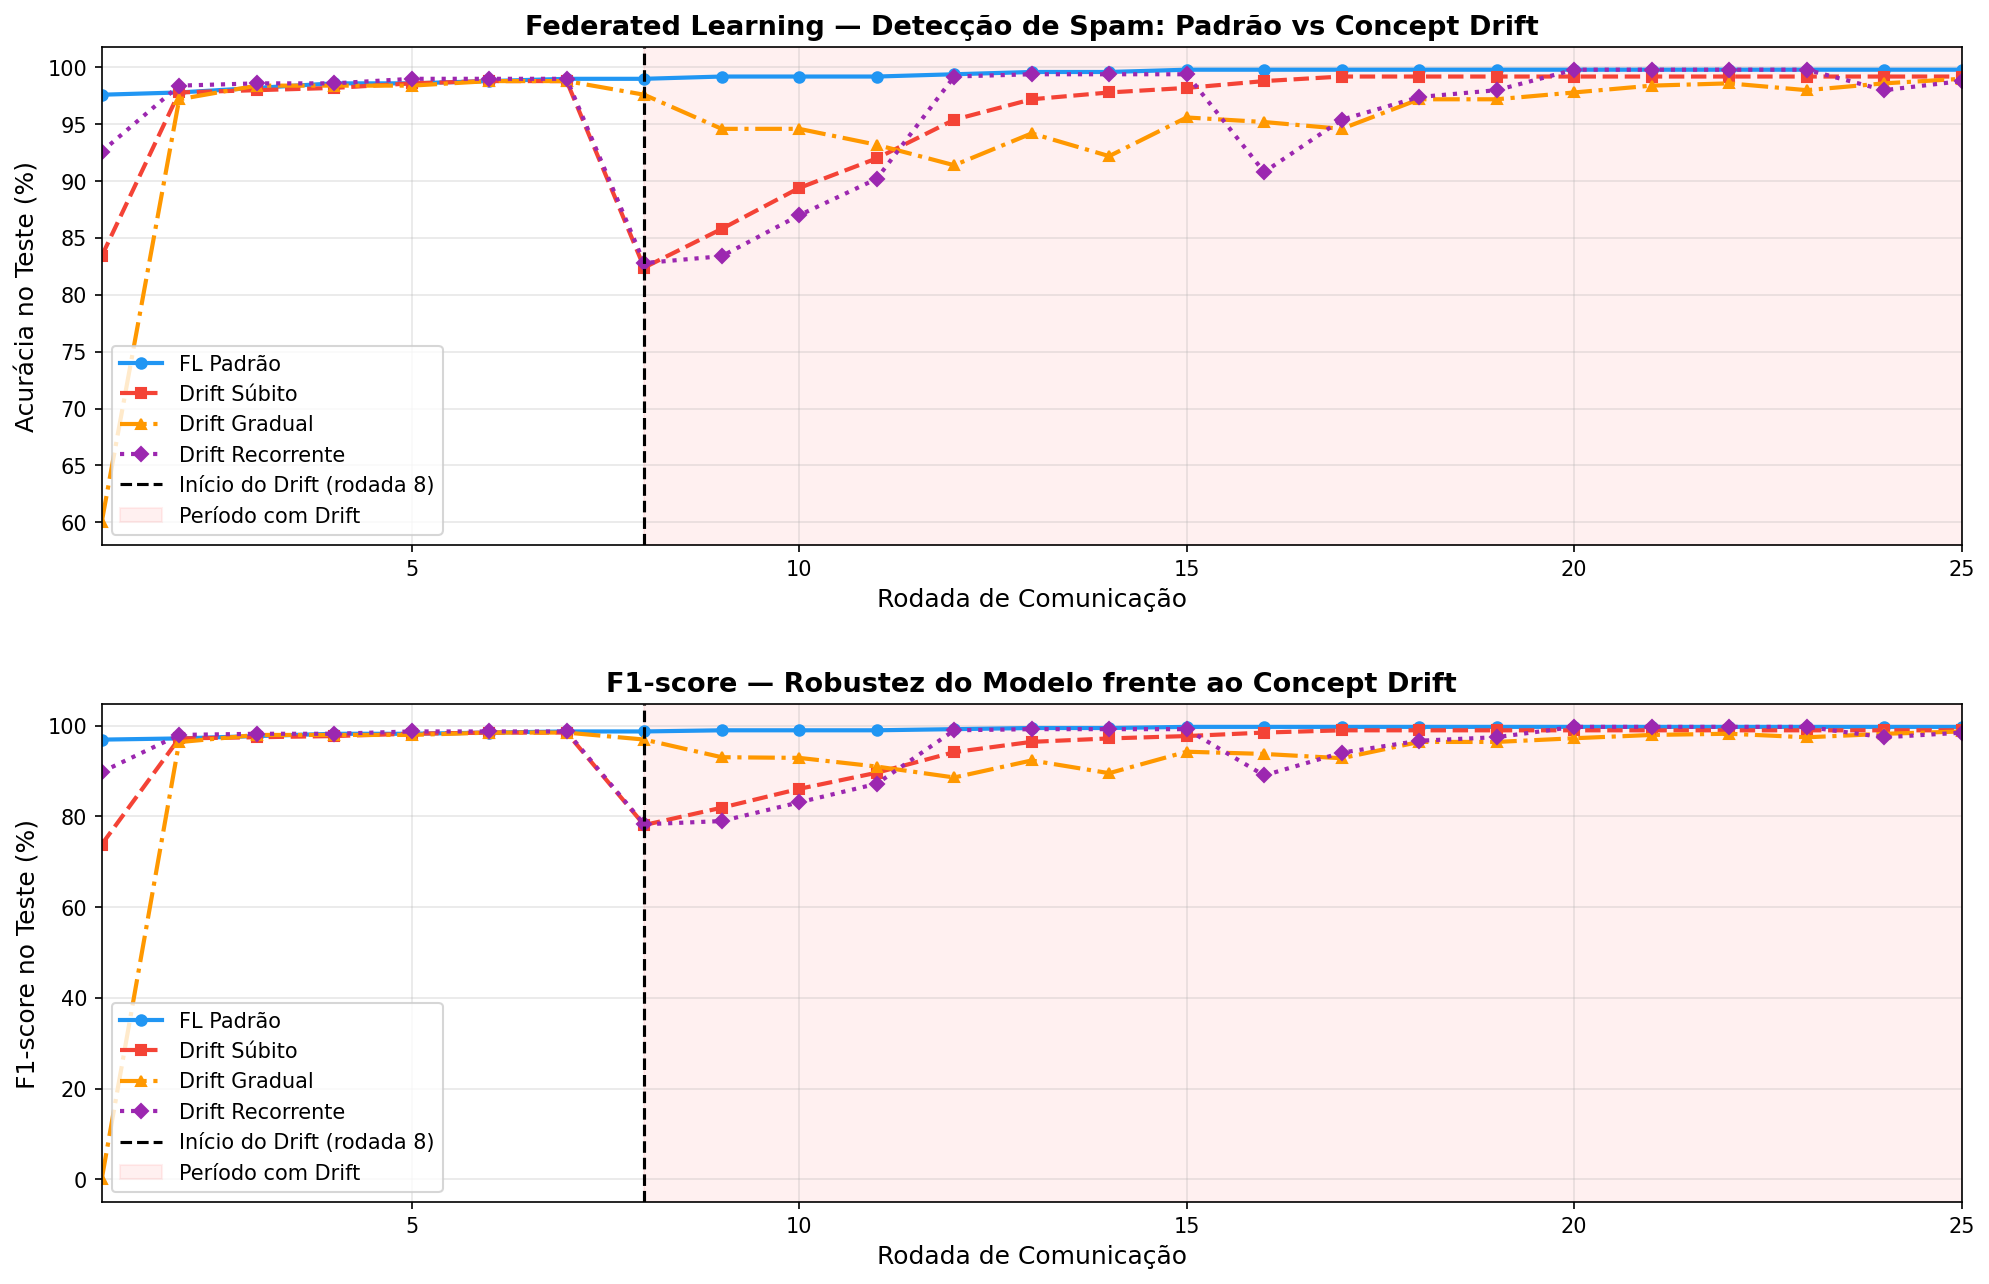
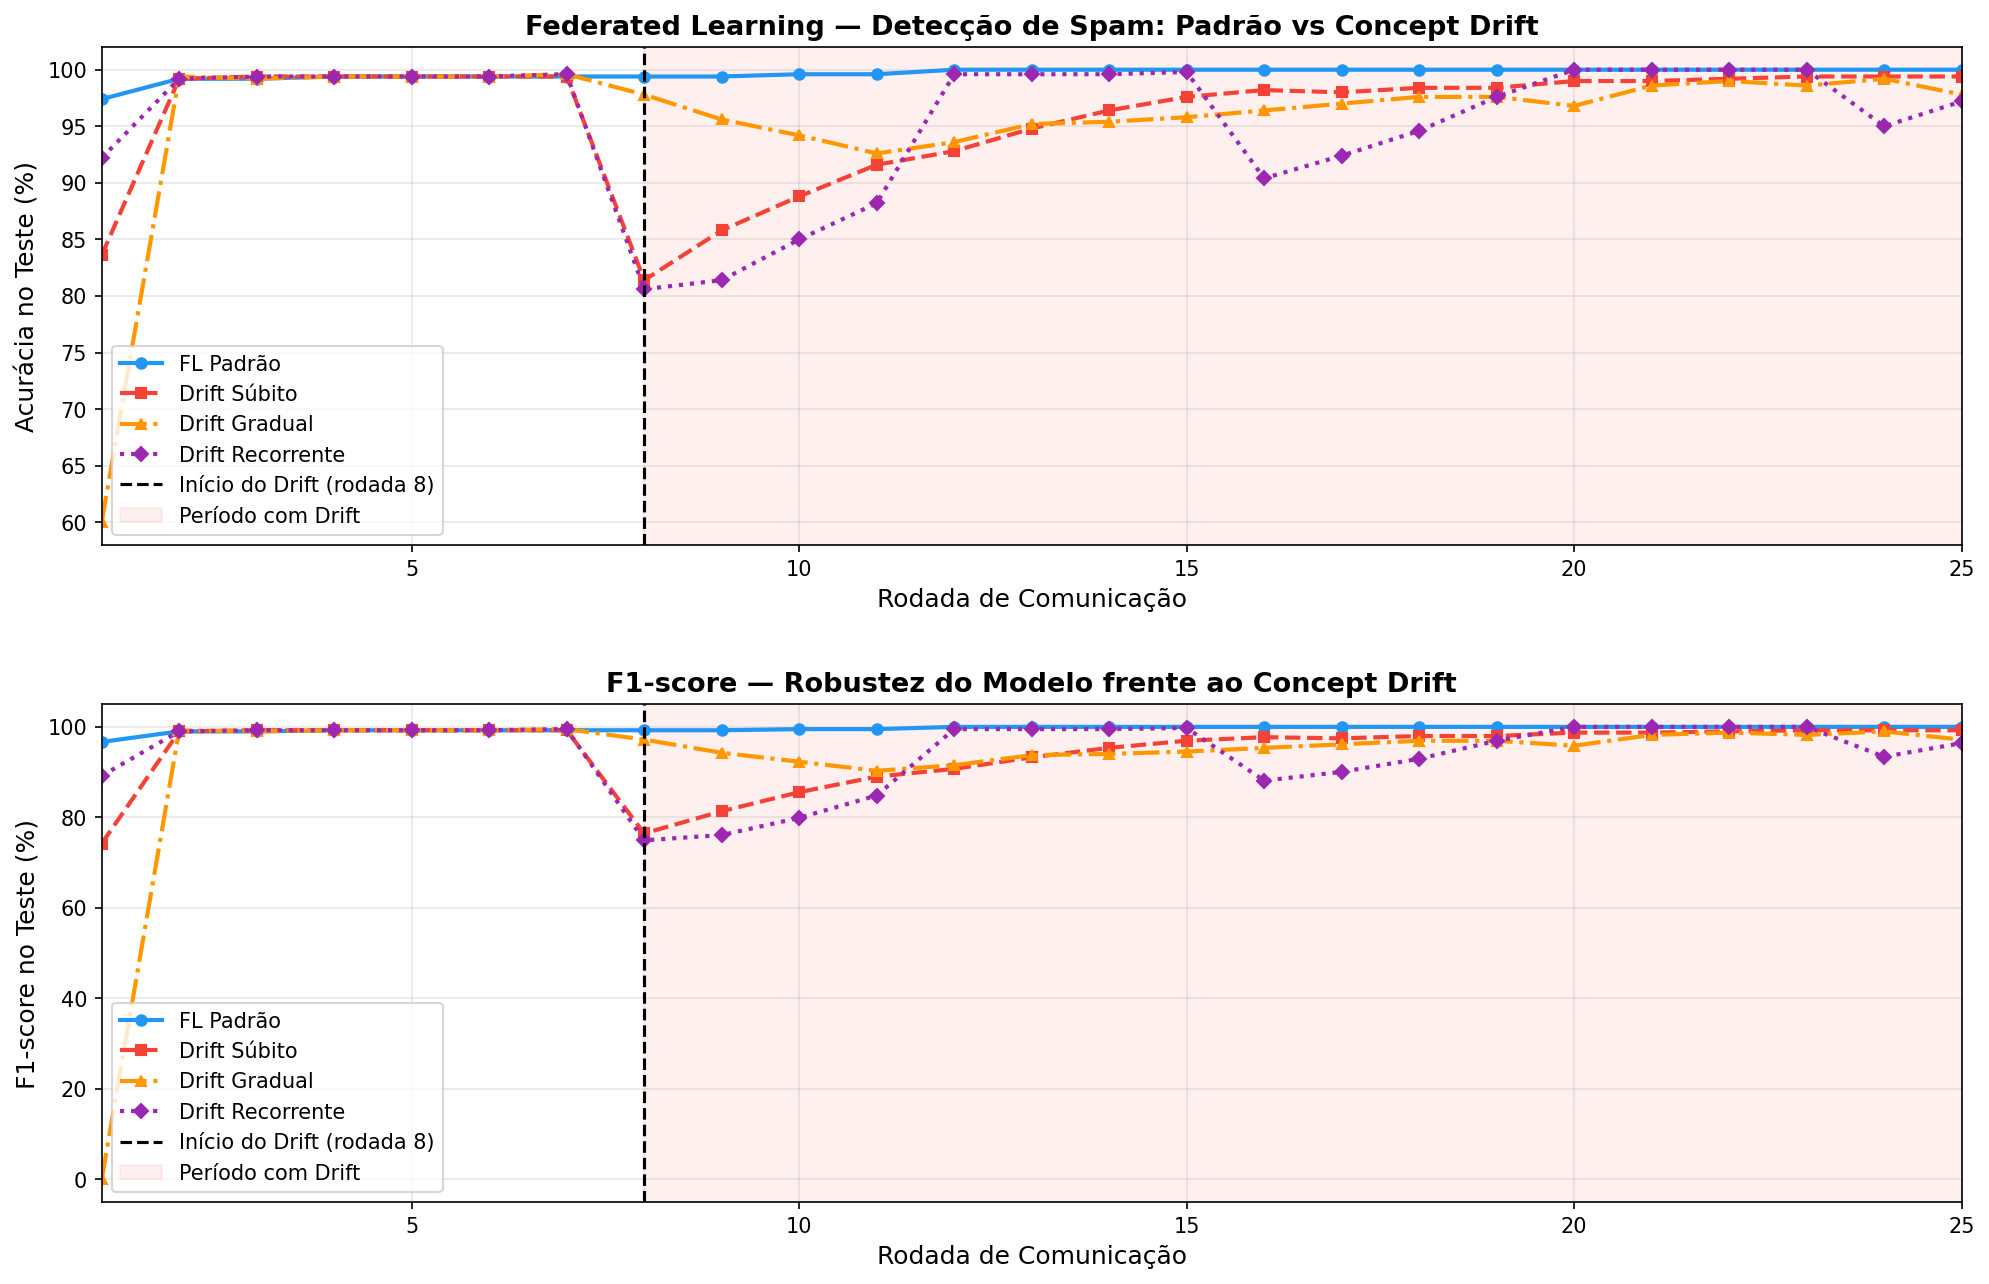
[REFACTOR] refatorando código de numpy.

diff --git a/src/data.py b/src/data.py
@@ -37,6 +37,7 @@ Perfis de spam:
 import numpy as np
 import torch
 from torch.utils.data import TensorDataset
+from utils.generator_util import GeneratorUtil
 
 from config import FEATURE_DIM, SPAM_RATIO
 
@@ -71,35 +72,35 @@ FEATURE_NAMES = [
 def _ham_features(n: int) -> np.ndarray:
     """Features de e-mails legítimos (ham)."""
     x = np.zeros((n, FEATURE_DIM), dtype=np.float32)
-    x[:, 0:10] = np.random.exponential(0.05, (n, 10))  # palavras-spam raras
-    x[:, 10] = np.random.poisson(1.5, n)  # poucos links
-    x[:, 11] = np.random.poisson(0.5, n)  # raramente "!"
-    x[:, 12] = np.clip(np.random.normal(0.50, 0.15, n), 0, 1)
-    x[:, 13] = np.clip(np.random.normal(0.05, 0.03, n), 0, 1)
-    x[:, 14] = np.random.binomial(1, 0.70, n)  # geralmente tem unsubscribe
-    x[:, 15] = np.random.binomial(1, 0.05, n)
-    x[:, 16] = np.random.binomial(1, 0.30, n)
-    x[:, 17] = np.random.poisson(0.8, n)
-    x[:, 18] = np.random.binomial(1, 0.80, n)  # remetente conhecido
-    x[:, 19] = np.random.binomial(1, 0.02, n)
+    x[:, 0:10] = GeneratorUtil.exponential(0.05, (n, 10))  # palavras-spam raras
+    x[:, 10] = GeneratorUtil.poisson(1.5, n)  # poucos links
+    x[:, 11] = GeneratorUtil.poisson(0.5, n)  # raramente "!"
+    x[:, 12] = np.clip(GeneratorUtil.normal(0.50, 0.15, n), 0, 1)
+    x[:, 13] = np.clip(GeneratorUtil.normal(0.05, 0.03, n), 0, 1)
+    x[:, 14] = GeneratorUtil.binomial(1, 0.70, n)  # geralmente tem unsubscribe
+    x[:, 15] = GeneratorUtil.binomial(1, 0.05, n)
+    x[:, 16] = GeneratorUtil.binomial(1, 0.30, n)
+    x[:, 17] = GeneratorUtil.poisson(0.8, n)
+    x[:, 18] = GeneratorUtil.binomial(1, 0.80, n)  # remetente conhecido
+    x[:, 19] = GeneratorUtil.binomial(1, 0.02, n)
     return x
 
 
 def _spam_phase_a(n: int) -> np.ndarray:
     """Spam clássico — abusa de free/win/prize/click/offer (features 0–4)."""
     x = np.zeros((n, FEATURE_DIM), dtype=np.float32)
-    x[:, 0:5] = np.random.exponential(1.2, (n, 5))  # palavras clássicas altas
-    x[:, 5:10] = np.random.exponential(0.05, (n, 5))  # palavras modernas baixas
-    x[:, 10] = np.random.poisson(8, n)
-    x[:, 11] = np.random.poisson(5, n)
-    x[:, 12] = np.clip(np.random.normal(0.70, 0.15, n), 0, 1)
-    x[:, 13] = np.clip(np.random.normal(0.35, 0.10, n), 0, 1)
-    x[:, 14] = np.random.binomial(1, 0.20, n)
-    x[:, 15] = np.random.binomial(1, 0.75, n)
-    x[:, 16] = np.random.binomial(1, 0.85, n)
-    x[:, 17] = np.random.poisson(5, n)
-    x[:, 18] = np.random.binomial(1, 0.05, n)
-    x[:, 19] = np.random.binomial(1, 0.70, n)
+    x[:, 0:5] = GeneratorUtil.exponential(1.2, (n, 5))  # palavras clássicas altas
+    x[:, 5:10] = GeneratorUtil.exponential(0.05, (n, 5))  # palavras modernas baixas
+    x[:, 10] = GeneratorUtil.poisson(8, n)
+    x[:, 11] = GeneratorUtil.poisson(5, n)
+    x[:, 12] = np.clip(GeneratorUtil.normal(0.70, 0.15, n), 0, 1)
+    x[:, 13] = np.clip(GeneratorUtil.normal(0.35, 0.10, n), 0, 1)
+    x[:, 14] = GeneratorUtil.binomial(1, 0.20, n)
+    x[:, 15] = GeneratorUtil.binomial(1, 0.75, n)
+    x[:, 16] = GeneratorUtil.binomial(1, 0.85, n)
+    x[:, 17] = GeneratorUtil.poisson(5, n)
+    x[:, 18] = GeneratorUtil.binomial(1, 0.05, n)
+    x[:, 19] = GeneratorUtil.binomial(1, 0.70, n)
     return x
 
 
@@ -110,18 +111,18 @@ def _spam_phase_b(n: int) -> np.ndarray:
     o modelo a aprender as novas palavras-chave, tornando o drift visível.
     """
     x = np.zeros((n, FEATURE_DIM), dtype=np.float32)
-    x[:, 0:5] = np.random.exponential(0.05, (n, 5))  # palavras clássicas baixas
-    x[:, 5:10] = np.random.exponential(1.2, (n, 5))  # palavras modernas altas
-    x[:, 10] = np.random.poisson(1.8, n)  # poucos links (≈ ham=1.5)
-    x[:, 11] = np.random.poisson(0.6, n)  # raramente "!" (≈ ham=0.5)
-    x[:, 12] = np.clip(np.random.normal(0.52, 0.15, n), 0, 1)
-    x[:, 13] = np.clip(np.random.normal(0.07, 0.03, n), 0, 1)
-    x[:, 14] = np.random.binomial(1, 0.60, n)
-    x[:, 15] = np.random.binomial(1, 0.35, n)
-    x[:, 16] = np.random.binomial(1, 0.35, n)
-    x[:, 17] = np.random.poisson(0.9, n)
-    x[:, 18] = np.random.binomial(1, 0.40, n)
-    x[:, 19] = np.random.binomial(1, 0.10, n)
+    x[:, 0:5] = GeneratorUtil.exponential(0.05, (n, 5))  # palavras clássicas baixas
+    x[:, 5:10] = GeneratorUtil.exponential(1.2, (n, 5))  # palavras modernas altas
+    x[:, 10] = GeneratorUtil.poisson(1.8, n)  # poucos links (≈ ham=1.5)
+    x[:, 11] = GeneratorUtil.poisson(0.6, n)  # raramente "!" (≈ ham=0.5)
+    x[:, 12] = np.clip(GeneratorUtil.normal(0.52, 0.15, n), 0, 1)
+    x[:, 13] = np.clip(GeneratorUtil.normal(0.07, 0.03, n), 0, 1)
+    x[:, 14] = GeneratorUtil.binomial(1, 0.60, n)
+    x[:, 15] = GeneratorUtil.binomial(1, 0.35, n)
+    x[:, 16] = GeneratorUtil.binomial(1, 0.35, n)
+    x[:, 17] = GeneratorUtil.poisson(0.9, n)
+    x[:, 18] = GeneratorUtil.binomial(1, 0.40, n)
+    x[:, 19] = GeneratorUtil.binomial(1, 0.10, n)
     return x
 
 
@@ -180,7 +181,7 @@ def make_dataset(n: int, spam_phase: str = "A", alpha: float = 0.0) -> TensorDat
     X = np.vstack([ham_x, spam_x]).astype(np.float32)
     y = np.array([0] * n_ham + [1] * n_spam, dtype=np.int64)
 
-    idx = np.random.permutation(n)
+    idx = GeneratorUtil.permutation(n)
     X, y = X[idx], y[idx]
     X = _normalize(X).clip(0, 1)
 
@@ -191,7 +192,8 @@ def split_iid(dataset: TensorDataset, num_clients: int) -> list:
     """Divide o dataset de forma IID entre os clientes."""
     X, y = dataset.tensors
     n = len(y)
-    idx = np.random.permutation(n)
+
+    idx = GeneratorUtil.permutation(n)
     chunk = n // num_clients
     return [
         TensorDataset(

diff --git a/src/utils/generator_util.py b/src/utils/generator_util.py
@@ -1,0 +1,44 @@
+import numpy as np
+
+from config import SEED
+
+
+class GeneratorUtil:
+    """Utilitário centralizado para geração de números aleatórios."""
+
+    _rng = np.random.default_rng(seed=SEED)
+
+    @staticmethod
+    def reseed(seed=SEED):
+        """Reinicializa o gerador global (opcional para experimentos)."""
+        GeneratorUtil._rng = np.random.default_rng(seed=seed)
+
+    @staticmethod
+    def exponential(scale, size=None, rng=None):
+        if rng is None:
+            rng = GeneratorUtil._rng
+        return rng.exponential(scale, size)
+
+    @staticmethod
+    def poisson(lam, size=None, rng=None):
+        if rng is None:
+            rng = GeneratorUtil._rng
+        return rng.poisson(lam, size)
+
+    @staticmethod
+    def normal(loc=0.0, scale=1.0, size=None, rng=None):
+        if rng is None:
+            rng = GeneratorUtil._rng
+        return rng.normal(loc, scale, size)
+
+    @staticmethod
+    def binomial(n, p, size=None, rng=None):
+        if rng is None:
+            rng = GeneratorUtil._rng
+        return rng.binomial(n, p, size)
+
+    @staticmethod
+    def permutation(n, rng=None):
+        if rng is None:
+            rng = GeneratorUtil._rng
+        return rng.permutation(n)

diff --git a/src/federated.py b/src/federated.py
@@ -25,15 +25,15 @@ def local_train(global_model: nn.Module, dataset: TensorDataset, epochs: int, lr
     model = deepcopy(global_model).to(DEVICE)
     model.train()
 
-    loader = DataLoader(dataset, batch_size=BATCH_SIZE, shuffle=True)
+    loader = DataLoader(dataset, batch_size=BATCH_SIZE, shuffle=True, num_workers=0)
     optimizer = optim.SGD(model.parameters(), lr=lr, momentum=0.9, weight_decay=1e-4)
     criterion = nn.CrossEntropyLoss()
 
     for _ in range(epochs):
-        for X_b, y_b in loader:
-            X_b, y_b = X_b.to(DEVICE), y_b.to(DEVICE)
+        for x_b, y_b in loader:
+            x_b, y_b = x_b.to(DEVICE), y_b.to(DEVICE)
             optimizer.zero_grad()
-            criterion(model(X_b), y_b).backward()
+            criterion(model(x_b), y_b).backward()
             optimizer.step()
 
     return model.state_dict(), len(dataset)
@@ -68,11 +68,11 @@ def evaluate(model: nn.Module, dataset: TensorDataset) -> tuple[float, float]:
         (accuracy %, f1-score %) — ambos em percentual.
     """
     model.eval()
-    loader = DataLoader(dataset, batch_size=256, shuffle=False)
+    loader = DataLoader(dataset, batch_size=256, shuffle=False, num_workers=0)
 
     all_preds, all_labels = [], []
-    for X_b, y_b in loader:
-        preds = model(X_b.to(DEVICE)).argmax(dim=1).cpu().numpy()
+    for x_b, y_b in loader:
+        preds = model(x_b.to(DEVICE)).argmax(dim=1).cpu().numpy()
         all_preds.extend(preds)
         all_labels.extend(y_b.numpy())
 

diff --git a/src/main.py b/src/main.py
@@ -20,10 +20,9 @@ import warnings
 import numpy as np
 import torch
 
-# Garante que os módulos do projeto sejam encontrados ao rodar diretamente
 sys.path.insert(0, os.path.dirname(__file__))
 
-from config import SEED, DRIFT_ROUND, N_TRAIN, N_TEST
+from config import SEED, DRIFT_ROUND, N_TRAIN, N_TEST, DEVICE
 from scenarios import (
     build_data_pools,
     make_standard_fns,
@@ -36,14 +35,11 @@ from visualization import plot_results, print_summary
 
 warnings.filterwarnings("ignore")
 
-# ── Reprodutibilidade ────────────────────────────────────────────────────────
 torch.manual_seed(SEED)
 np.random.seed(SEED)
 
 
 def main():
-    from config import DEVICE
-
     print("=" * 68)
     print("  Federated Learning com Concept Drift — Spam de E-mail")
     print("  Dataset sintético | 20 features | spam/ham")
@@ -52,6 +48,8 @@ def main():
 
     pools = build_data_pools()
     print(f"[INFO] Datasets gerados ({N_TRAIN} treino / {N_TEST} teste por fase).")
+
+    print(pools)
 
     histories = {
         "FL Padrão": run_scenario("FL Padrão", *make_standard_fns(pools)),

diff --git a/src/scenarios.py b/src/scenarios.py
@@ -52,9 +52,9 @@ def build_data_pools() -> dict:
     return {
         "clients_A": clients_a,
         "clients_B": clients_b,
-        "gradual_train": gradual_train,
         "test_A": test_a,
         "test_B": test_b,
+        "gradual_train": gradual_train,
         "gradual_test": gradual_test,
     }
 
@@ -169,5 +169,8 @@ def run_scenario(name: str, get_train_fn, get_test_fn) -> tuple[list, list]:
         acc, f1 = evaluate(model, get_test_fn(rnd))
         acc_hist.append(acc)
         f1_hist.append(f1)
+
+        note = _drift_note(name, rnd)
+        print(f"  {rnd:>7d}  │  {acc:>6.1f}%  │  {f1:>6.1f}%  │  {note}")
 
     return acc_hist, f1_hist